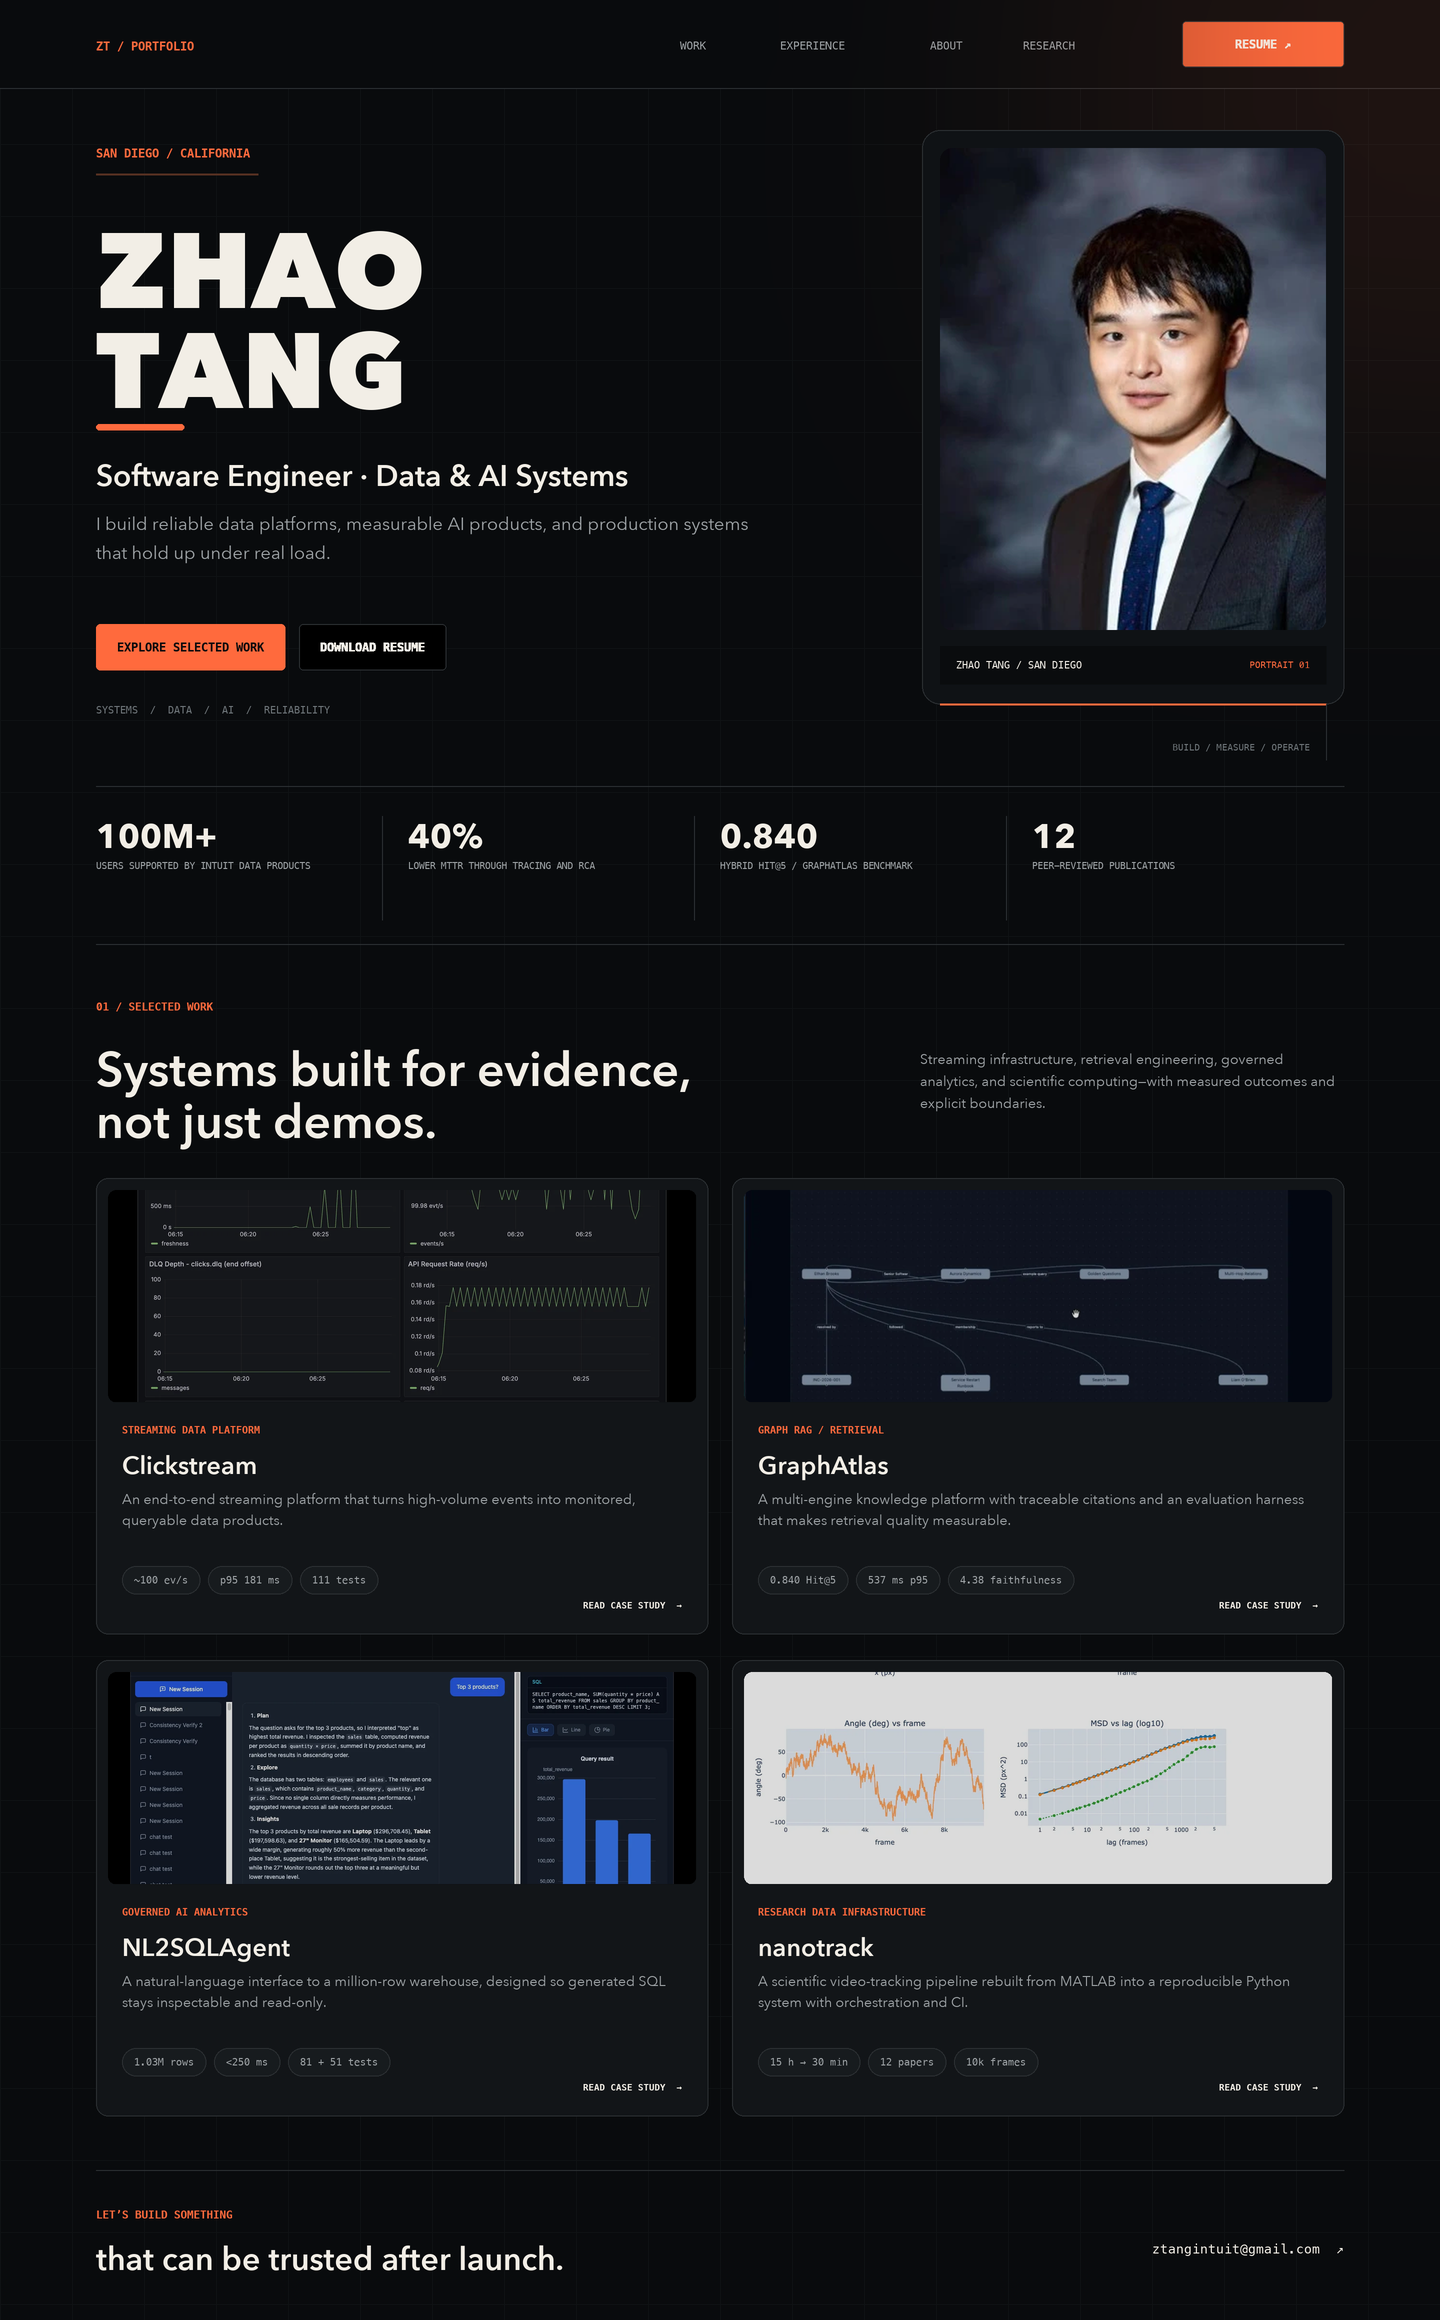
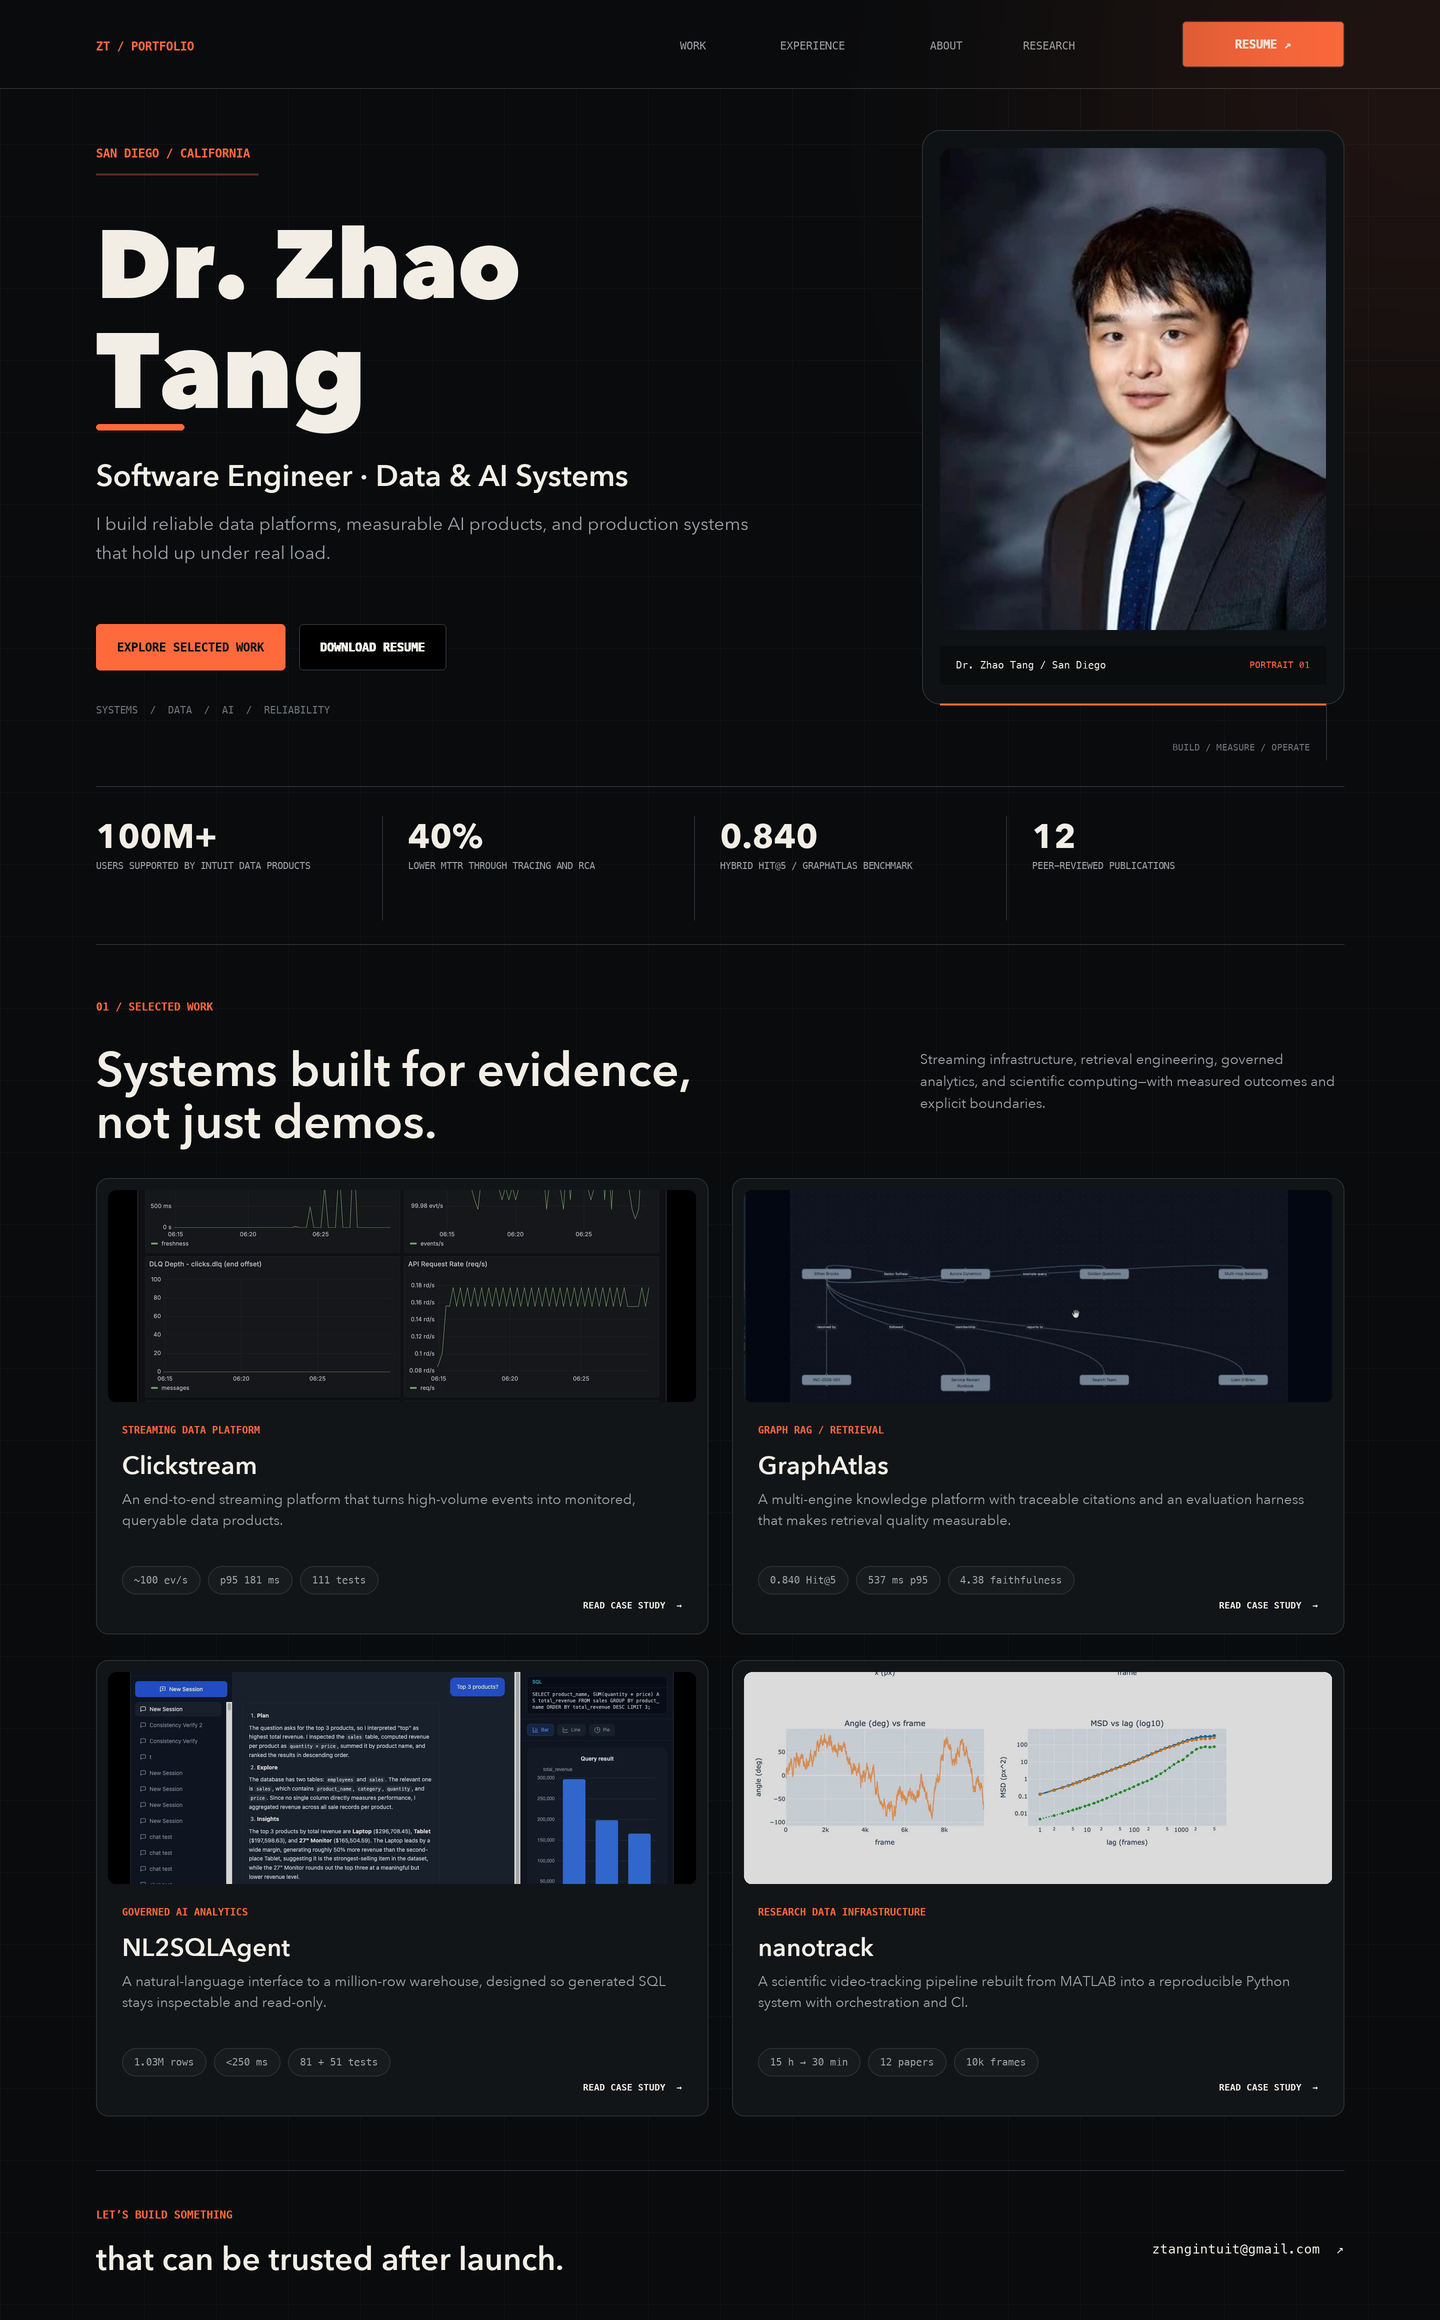
ZHA-189: design(portfolio): use title-case doctor name

Changed region(s): [[0.0625, 0.0931, 0.375, 0.1862]]

diff --git a/design/generate_mockups.py b/design/generate_mockups.py
@@ -346,8 +346,8 @@ def draw_hero_desktop(canvas: Canvas):
     canvas.text(96, 146, "SAN DIEGO / CALIFORNIA", 12, "mono-bold", ORANGE)
     canvas.line([(96, 174), (258, 174)], (86, 49, 34, 255), 2)
 
-    canvas.text(96, 202, "ZHAO", 106, "heavy", TEXT)
-    canvas.text(96, 302, "TANG", 106, "heavy", TEXT)
+    canvas.text(96, 202, "Dr. Zhao", 96, "heavy", TEXT)
+    canvas.text(96, 302, "Tang", 106, "heavy", TEXT)
     canvas.rect(96, 424, 88, 6, 3, ORANGE)
     canvas.text(96, 456, "Software Engineer · Data & AI Systems", 30, "demi", TEXT)
     canvas.paragraph(
@@ -374,7 +374,7 @@ def draw_hero_desktop(canvas: Canvas):
     canvas.rect(922, 130, 422, 574, 18, (15, 18, 21, 255), BORDER, 1)
     canvas.image_cover(AVATAR, 940, 148, 386, 482, 12)
     canvas.overlay_rect(940, 646, 386, 38, 0, (9, 11, 13, 215))
-    canvas.text(956, 665, "ZHAO TANG / SAN DIEGO", 10, "mono", TEXT, "lm")
+    canvas.text(956, 665, "Dr. Zhao Tang / San Diego", 10, "mono", TEXT, "lm")
     canvas.text(1310, 665, "PORTRAIT 01", 9, "mono", ORANGE, "rm")
     canvas.line([(940, 704), (1326, 704)], (255, 106, 61, 180), 2)
     canvas.line([(1326, 704), (1326, 760)], BORDER, 1)
@@ -561,8 +561,8 @@ def mobile_home():
     canvas.glow((330, 330), 190, ORANGE, 20)
 
     canvas.text(24, 100, "SAN DIEGO / CALIFORNIA", 10, "mono-bold", ORANGE)
-    canvas.text(24, 132, "ZHAO", 64, "heavy", TEXT)
-    canvas.text(24, 192, "TANG", 64, "heavy", TEXT)
+    canvas.text(24, 132, "Dr. Zhao", 58, "heavy", TEXT)
+    canvas.text(24, 192, "Tang", 66, "heavy", TEXT)
     canvas.rect(24, 270, 62, 5, 3, ORANGE)
     canvas.text(24, 296, "Software Engineer", 23, "demi", TEXT)
     canvas.text(24, 326, "Data & AI Systems", 23, "demi", TEXT)

diff --git a/docs/CONTENT.md b/docs/CONTENT.md
@@ -12,7 +12,7 @@ must remain traceable to the evidence register in this document.
 
 ### Site title
 
-`Zhao Tang — Software Engineer, Data & AI Systems`
+`Dr. Zhao Tang — Software Engineer, Data & AI Systems`
 
 ### Meta description
 
@@ -63,7 +63,7 @@ Eyebrow:
 
 Name:
 
-`ZHAO TANG`
+`Dr. Zhao Tang`
 
 Discipline:
 
